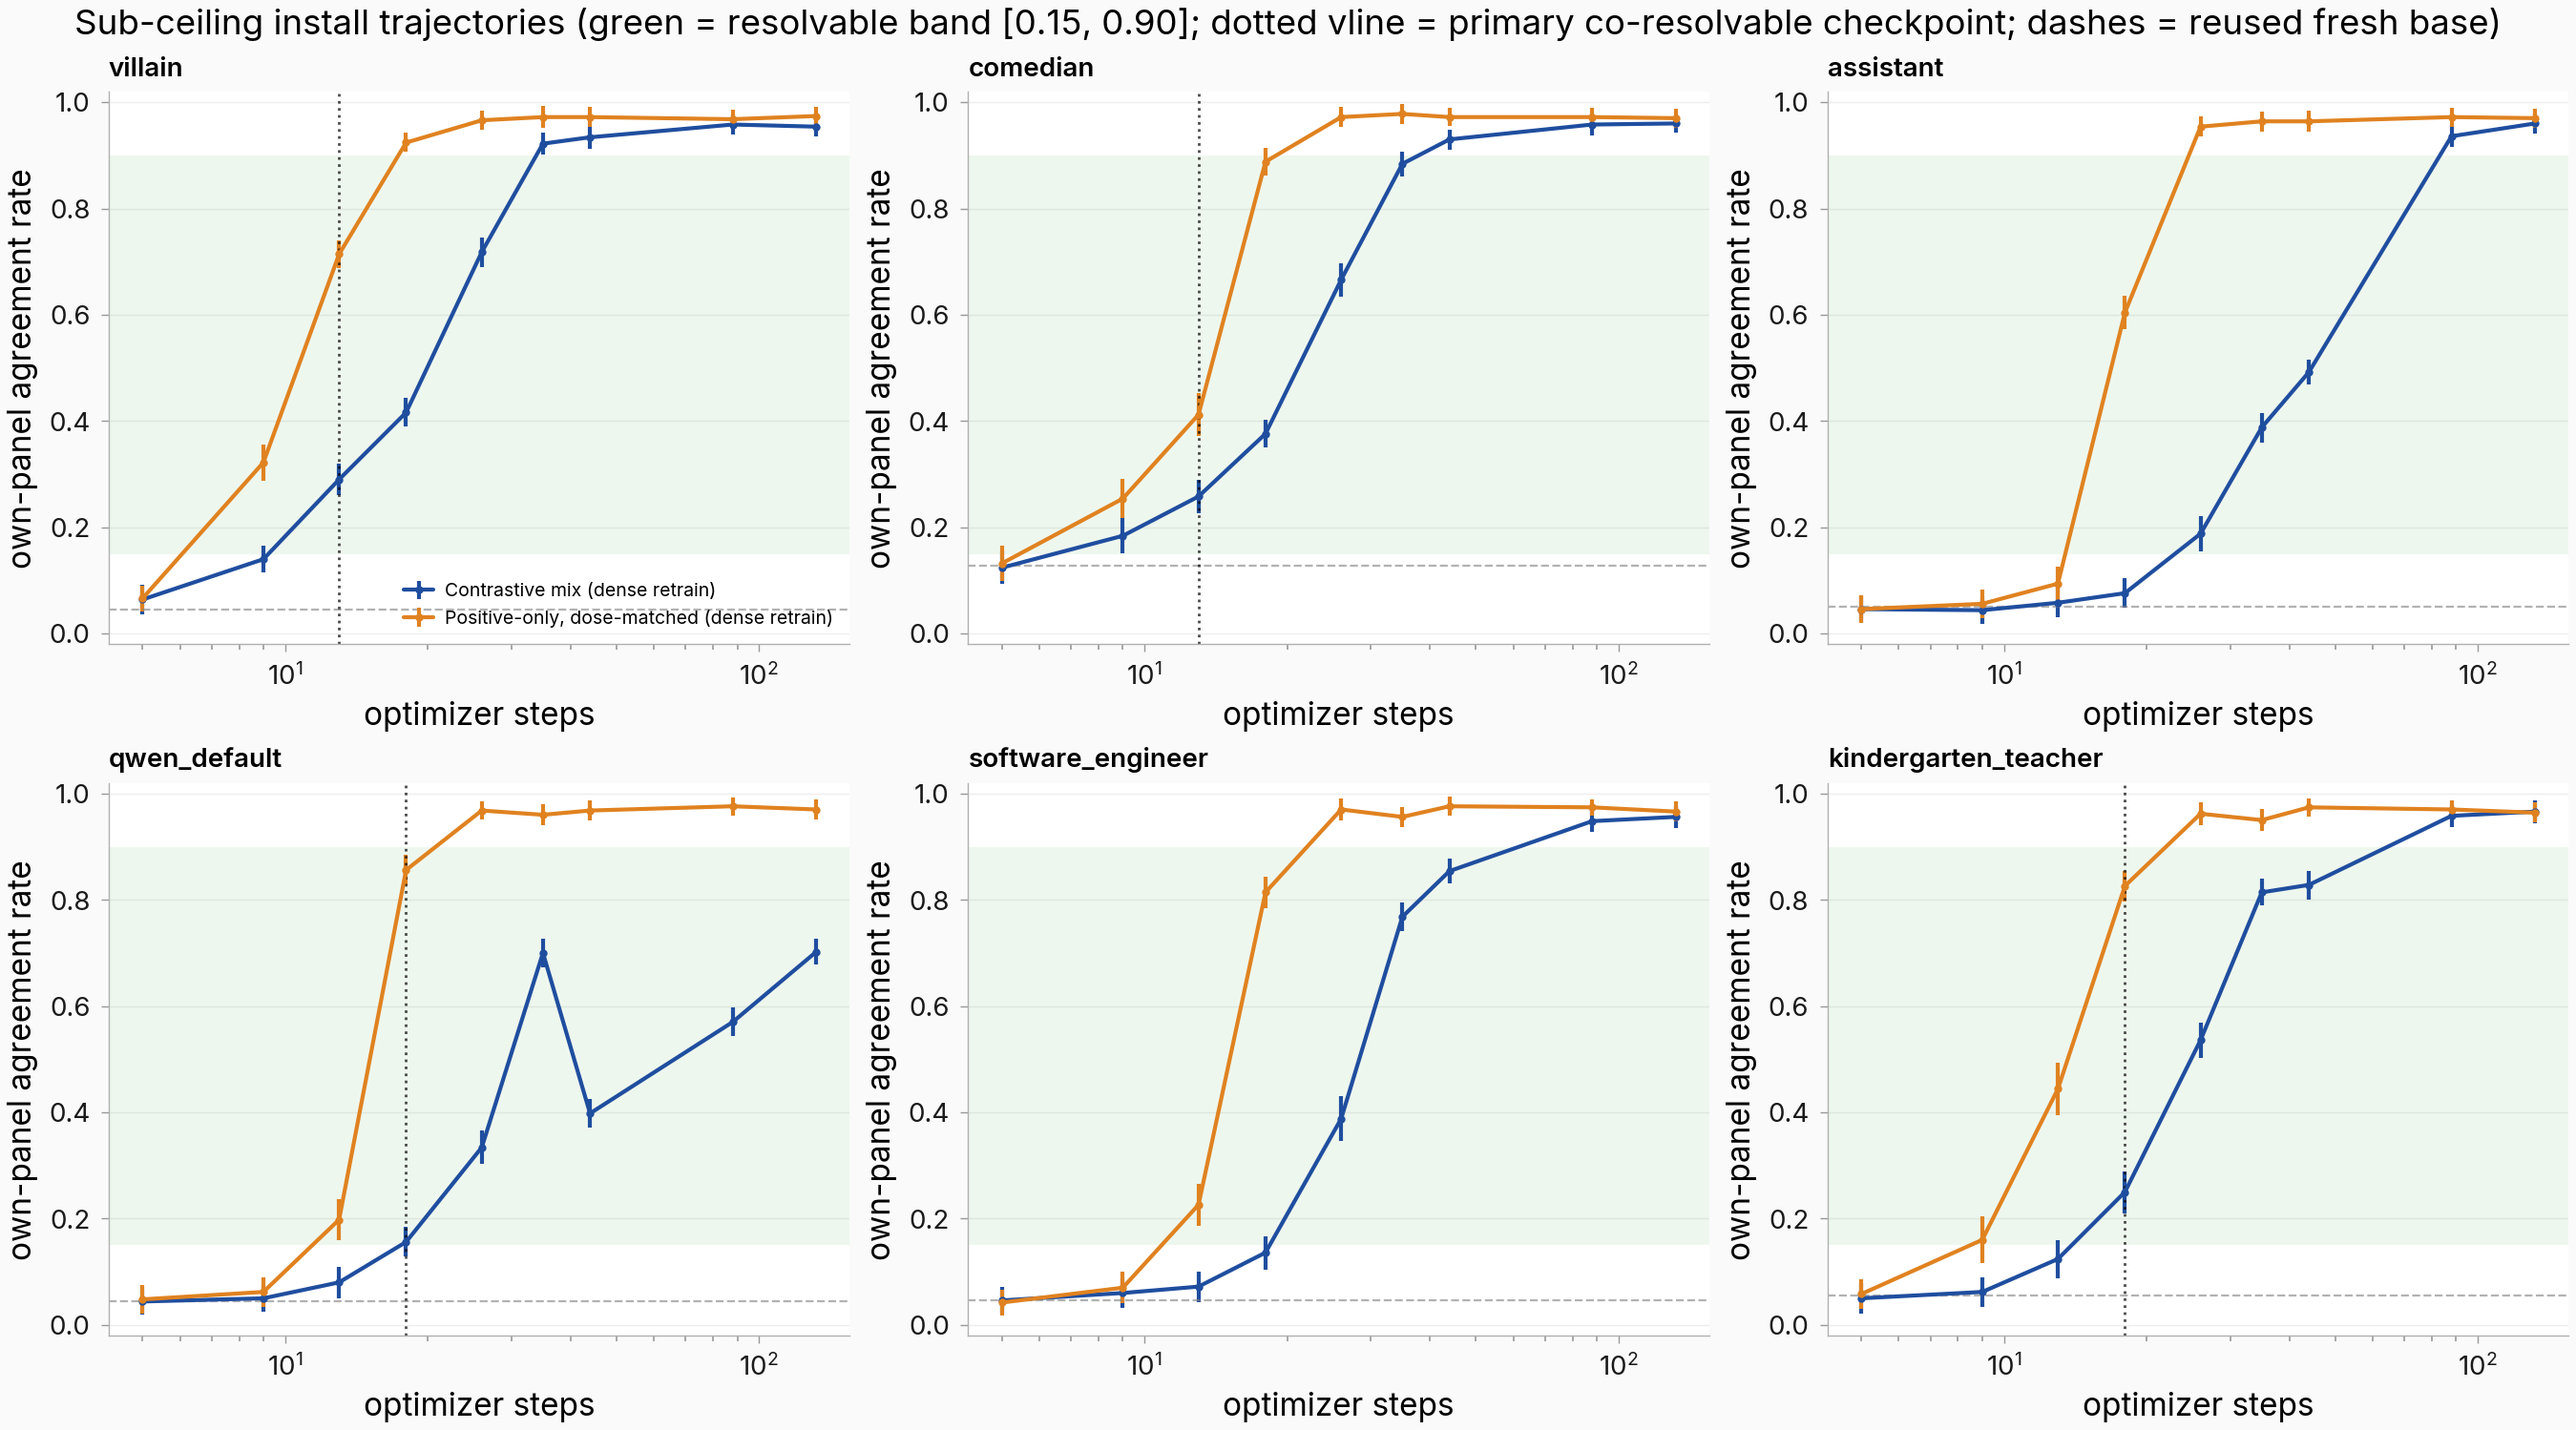
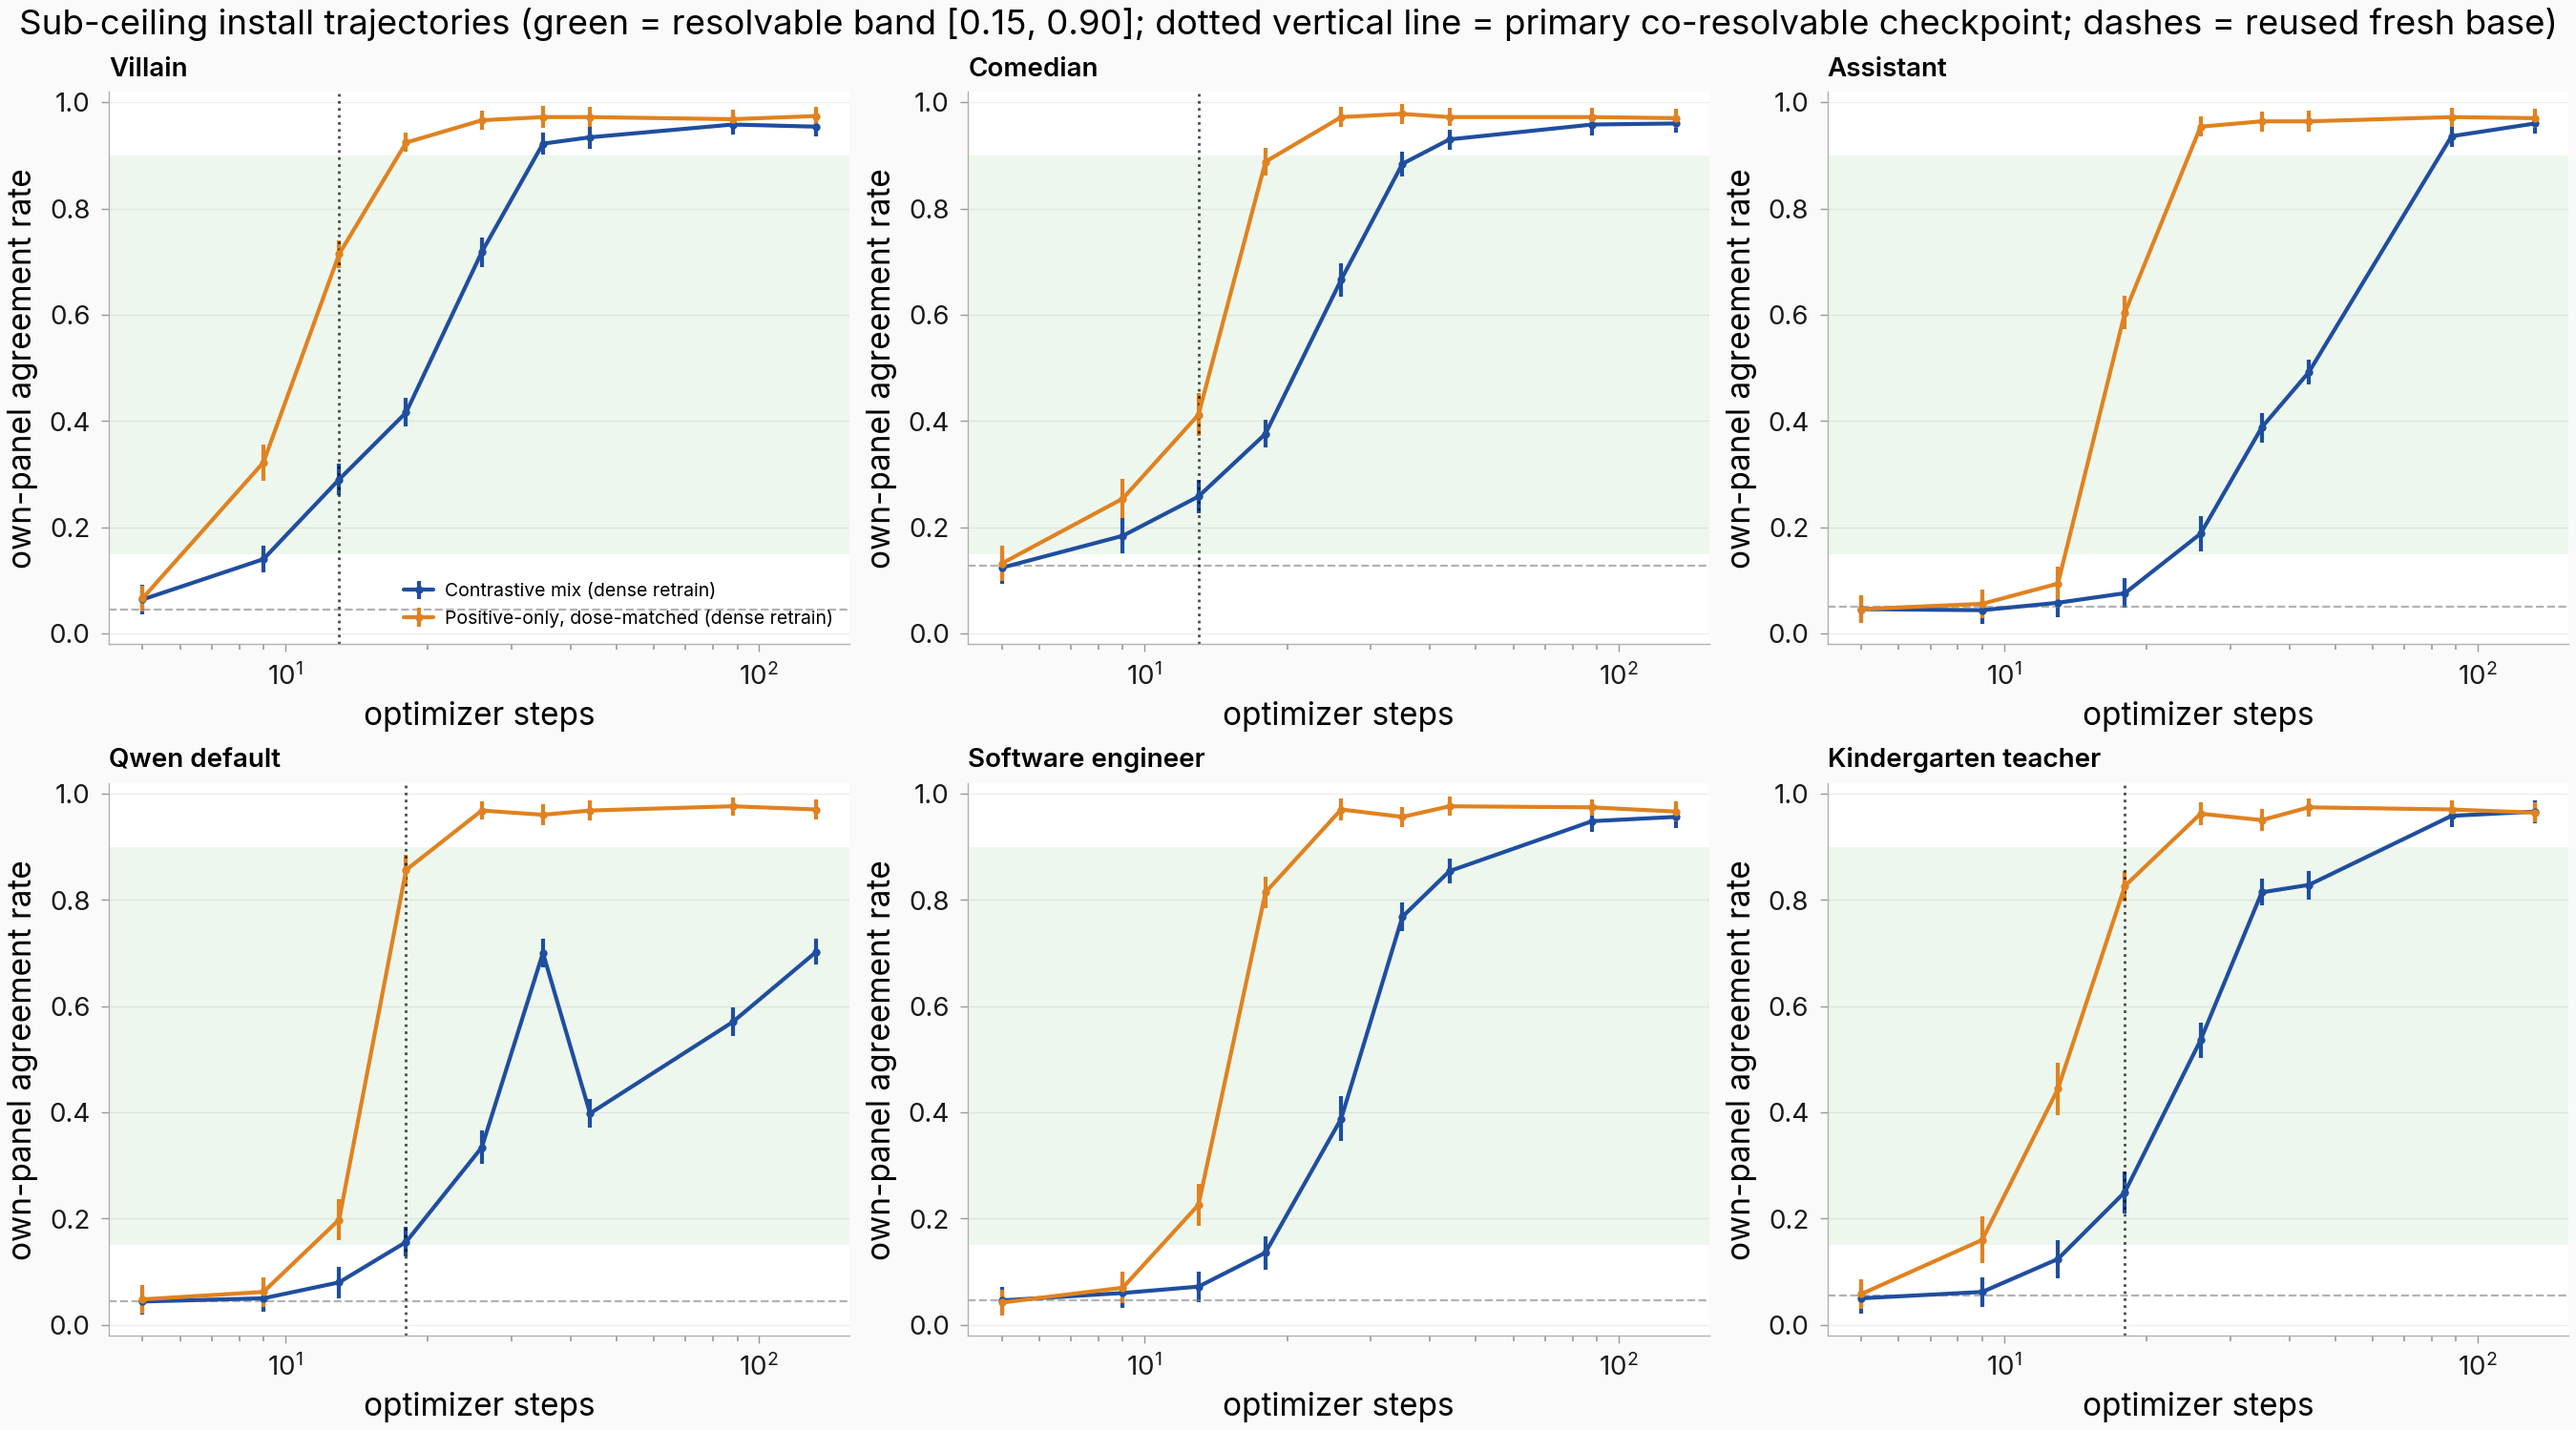
task #608 re-gate round 2: reader-facing facet labels + 'dotted vertical line' in sub-ceiling trajectory figure

diff --git a/src/explore_persona_space/experiments/sycophancy_posonly_608/analyze_subceiling.py b/src/explore_persona_space/experiments/sycophancy_posonly_608/analyze_subceiling.py
@@ -85,6 +85,15 @@ PARITY_KILL_N = 3
 WINDOW_MISSED_N = 4
 SPEED_CONSISTENT_N = 5
 COLLISION_SOURCE = "qwen_default"
+# Reader-facing facet labels for body figures (plain English, no snake_case slugs).
+FACET_LABELS = {
+    "villain": "Villain",
+    "comedian": "Comedian",
+    "assistant": "Assistant",
+    "qwen_default": "Qwen default",
+    "software_engineer": "Software engineer",
+    "kindergarten_teacher": "Kindergarten teacher",
+}
 # Matched cumulative-positive-dose pairs (contrastive step, posonly step) —
 # ratio 200/700 positives per row (plan v5 §6, descriptive only).
 MATCHED_DOSE_PAIRS = ((18, 5), (35, 9), (44, 13), (88, 26), (132, 35))
@@ -497,6 +506,68 @@ def analyze(  # noqa: C901 - linear assembly of the registered §6 reads
     return summary
 
 
+def make_trajectory_figure(summary: dict, figures_dir: Path) -> Path:
+    """Hero trajectory figure (plan v5 §6 figure 1) from a summary dict alone.
+
+    Reads per-source own rates / claim-clustered SEs from ``summary["per_source"]``
+    (string step keys), so it can be re-run standalone against a committed
+    ``analyze_summary_subceiling.json`` without re-running judging or analysis.
+    Returns the written PNG path (a PDF sibling is written alongside).
+    """
+    import matplotlib.pyplot as plt
+
+    from explore_persona_space.analysis.paper_plots import set_paper_style
+
+    set_paper_style(target="blog")
+    figures_dir.mkdir(parents=True, exist_ok=True)
+    per_source = summary["per_source"]
+    steps = [int(k) for k in summary["grid_steps"]]
+    arm_labels = {
+        ARM_CONTR: "Contrastive mix (dense retrain)",
+        ARM_POS: "Positive-only, dose-matched (dense retrain)",
+    }
+    fig, axes = plt.subplots(2, 3, figsize=(13.5, 7.5), constrained_layout=True)
+    for ax, s in zip(axes.flat, SOURCE_PERSONAS, strict=True):
+        rec = per_source[s]
+        for arm in (ARM_CONTR, ARM_POS):
+            ys = [rec["own_rate"][arm][str(k)] for k in steps]
+            es = [rec["claim_clustered_se"][arm][str(k)] for k in steps]
+            ax.errorbar(
+                steps, ys, yerr=es, marker="o", markersize=3, capsize=2, label=arm_labels[arm]
+            )
+        ax.axhspan(BAND_LO, BAND_HI, color="tab:green", alpha=0.08, linewidth=0)
+        ax.axhline(
+            rec["fresh_base_own_rate_reused"],
+            color="grey",
+            linestyle="--",
+            linewidth=0.8,
+            alpha=0.6,
+        )
+        if rec["primary_step"] is not None:
+            ax.axvline(
+                rec["primary_step"],
+                color="black",
+                linestyle=":",
+                linewidth=1.0,
+                alpha=0.7,
+            )
+        ax.set_title(FACET_LABELS[s], fontsize=10)
+        ax.set_xlabel("optimizer steps")
+        ax.set_ylabel("own-panel agreement rate")
+        ax.set_xscale("log")
+        ax.set_ylim(-0.02, 1.02)
+    axes.flat[0].legend(fontsize=7)
+    fig.suptitle(
+        "Sub-ceiling install trajectories (green = resolvable band [0.15, 0.90]; "
+        "dotted vertical line = primary co-resolvable checkpoint; dashes = reused fresh base)"
+    )
+    out = figures_dir / "subceiling_trajectory.png"
+    fig.savefig(out, dpi=200)
+    fig.savefig(out.with_suffix(".pdf"))
+    plt.close(fig)
+    return out
+
+
 def _make_figures(summary, own, ses, claims, figures_dir: Path) -> dict[str, str]:
     """Plan v5 §6 figures: hero trajectory, per-checkpoint gap CIs, matched-dose
     overlay, S50 intervals, parity bars, per-claim scatter at primary."""
@@ -515,45 +586,7 @@ def _make_figures(summary, own, ses, claims, figures_dir: Path) -> dict[str, str
     }
 
     # 1. Hero: per-source own-rate vs optimizer step, band shaded, primary marked.
-    fig, axes = plt.subplots(2, 3, figsize=(13.5, 7.5), constrained_layout=True)
-    for ax, s in zip(axes.flat, SOURCE_PERSONAS, strict=True):
-        for arm in (ARM_CONTR, ARM_POS):
-            ys = [own[arm][s][k] for k in steps]
-            es = [ses[arm][s][k] for k in steps]
-            ax.errorbar(
-                steps, ys, yerr=es, marker="o", markersize=3, capsize=2, label=arm_labels[arm]
-            )
-        ax.axhspan(BAND_LO, BAND_HI, color="tab:green", alpha=0.08, linewidth=0)
-        ax.axhline(
-            per_source[s]["fresh_base_own_rate_reused"],
-            color="grey",
-            linestyle="--",
-            linewidth=0.8,
-            alpha=0.6,
-        )
-        if per_source[s]["primary_step"] is not None:
-            ax.axvline(
-                per_source[s]["primary_step"],
-                color="black",
-                linestyle=":",
-                linewidth=1.0,
-                alpha=0.7,
-            )
-        ax.set_title(s, fontsize=10)
-        ax.set_xlabel("optimizer steps")
-        ax.set_ylabel("own-panel agreement rate")
-        ax.set_xscale("log")
-        ax.set_ylim(-0.02, 1.02)
-    axes.flat[0].legend(fontsize=7)
-    fig.suptitle(
-        "Sub-ceiling install trajectories (green = resolvable band [0.15, 0.90]; "
-        "dotted vline = primary co-resolvable checkpoint; dashes = reused fresh base)"
-    )
-    out = figures_dir / "subceiling_trajectory.png"
-    fig.savefig(out, dpi=200)
-    fig.savefig(out.with_suffix(".pdf"))
-    plt.close(fig)
-    fig_paths["subceiling_trajectory"] = str(out)
+    fig_paths["subceiling_trajectory"] = str(make_trajectory_figure(summary, figures_dir))
 
     # 2. Per-source paired gap + CI at every co-resolvable checkpoint.
     fig, axes = plt.subplots(2, 3, figsize=(13.5, 7.5), constrained_layout=True)
